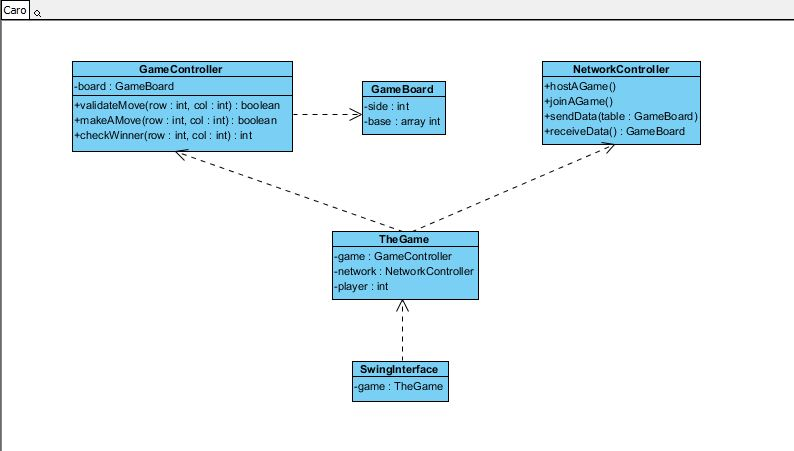
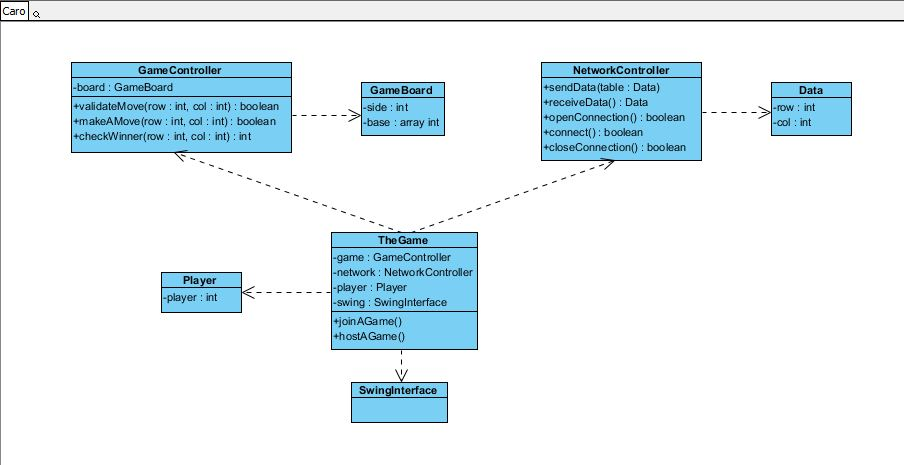
:D

diff --git a/caro/src/SocketNetwork/NetworkController.java b/caro/src/SocketNetwork/NetworkController.java
@@ -26,12 +26,15 @@ public class NetworkController {
         try {
             this.svSoc = new ServerSocket(this.PORT);
             this.soc = svSoc.accept();
-            this.objIn = new ObjectInputStream (new BufferedInputStream(this.soc.getInputStream()));
-            this.objOut = new ObjectOutputStream (new BufferedOutputStream(this.soc.getOutputStream()));
+            this.objOut = new ObjectOutputStream(new BufferedOutputStream ( this.soc.getOutputStream() ));
+            this.objOut.flush();
+            this.objIn = new ObjectInputStream(new BufferedInputStream ( this.soc.getInputStream() ));
             
             return true;
         } catch (IOException ex) {
             Logger.getLogger(NetworkController.class.getName()).log(Level.SEVERE, null, ex);  
+        } catch (Exception e){
+            e.printStackTrace();
         }
         return false;
     }
@@ -39,14 +42,17 @@ public class NetworkController {
     public boolean connect(String hostIP){
         try {
             this.soc = new Socket(hostIP, this.PORT);
-            this.objIn = new ObjectInputStream (new BufferedInputStream(this.soc.getInputStream()));
-            this.objOut = new ObjectOutputStream (new BufferedOutputStream(this.soc.getOutputStream()));
+            this.objOut = new ObjectOutputStream(new BufferedOutputStream ( this.soc.getOutputStream() ));
+            this.objOut.flush();
+            this.objIn = new ObjectInputStream(new BufferedInputStream ( this.soc.getInputStream() ));  
             
             return true;
         } catch (UnknownHostException ex) {
             Logger.getLogger(NetworkController.class.getName()).log(Level.SEVERE, null, ex);
         } catch (IOException ex) {
             Logger.getLogger(NetworkController.class.getName()).log(Level.SEVERE, null, ex);
+        } catch (Exception e) {
+            e.printStackTrace();
         }
         return false;
     }
@@ -71,6 +77,7 @@ public class NetworkController {
     public boolean sendData(Data data){
         try {
             this.objOut.writeObject(data);
+            this.objOut.flush();
             return true;
         } catch (IOException ex) {
             Logger.getLogger(NetworkController.class.getName()).log(Level.SEVERE, null, ex);

diff --git a/caro/src/TheGame.java b/caro/src/TheGame.java
@@ -17,6 +17,7 @@ public class TheGame {
         TheGame theGame = new TheGame();
         Scanner sc = new Scanner(System.in);
         
+        System.out.println("1 for server | 2 for client");
         int choice = sc.nextInt();
         switch (choice){
             case 1:
@@ -35,12 +36,15 @@ public class TheGame {
         boolean check = nwCtrl.openConnection();
         if(check)
             System.out.println("server ok");
+        else
+            System.out.println("server not ok");
         Data data;
         while( gameGoOn() ){
             data = nwCtrl.receiveData();
             System.out.println("Row: " + data.getRow());
             System.out.println("Col: " + data.getCol());
             System.out.println("Data received");
+            break;
         }
         check = nwCtrl.closeConnection();
         if(check)
@@ -52,10 +56,13 @@ public class TheGame {
         boolean check = nwCtrl.connect("localhost");
         if(check)
             System.out.println("client ok");
-        Data data;
+        else
+            System.out.println("client not ok");
+        Data data = new Data(1, 2);
         while( gameGoOn() ){
-            nwCtrl.sendData(new Data(1, 2));
+            nwCtrl.sendData(data);
             System.out.println("Data sent");
+            break;
         }
         check = nwCtrl.closeConnection();
         if(check)

diff --git a/caro/src/SwingInterface/MyFrame.java b/caro/src/SwingInterface/MyFrame.java
@@ -23,20 +23,23 @@ public class MyFrame extends JFrame {
         this.playField = playField;
     }
     
-    public MyFrame(){
-        this.playField = new JPanel(new GridLayout(3,3));
-        for (int i = 0; i < 9; i++) {
-            XOButton btn = new XOButton();
-            btn.addActionListener(btn);
-            this.playField.add(btn);
+    public MyFrame(int side){
+        this.playField = new JPanel(new GridLayout(side, side));
+        for (int row = 0; row < side; row++) {
+            for(int col = 0; col < side; col++){
+                XOButton btn = new XOButton(row, col);
+                btn.addActionListener(btn);
+                this.playField.add(btn);
+            }
         }
         this.getContentPane().add(this.playField);
         this.setVisible(true);
         this.pack();
+        this.setResizable(false);
         this.setDefaultCloseOperation(EXIT_ON_CLOSE);
     }
     
-//    public static void main(String[] args) {
-//        JFrame myFrame = new MyFrame();
-//    }
+    public static void main(String[] args) {
+        MyFrame frame = new MyFrame(3);
+    }
 }

diff --git a/caro/src/SwingInterface/XOButton.java b/caro/src/SwingInterface/XOButton.java
@@ -14,16 +14,20 @@ import javax.swing.JButton;
  * @author tannm_b01522
  */
 public class XOButton extends JButton implements ActionListener{
-    private int value = 0;
-    public XOButton(){
-        this.setText(this.value+"");
+    private int value;
+    private int rowPos;
+    private int colPos;
+    
+    public XOButton(int rowPos, int colPos){
+        this.value = 0;
+        this.rowPos = rowPos;
+        this.colPos = colPos;
+        this.setText(" ");
     }
+    
     @Override
     public void actionPerformed(ActionEvent ae) {
-        this.value ++;
-        if(this.value > 1){
-            this.value = 0;
-        }
-        this.setText(this.value+"");
+        XOButton source = (XOButton) ae.getSource();
+        
     }
 }

diff --git a/caro/src/GameCore/Player.java b/caro/src/GameCore/Player.java
@@ -1,0 +1,28 @@
+/*
+ * To change this license header, choose License Headers in Project Properties.
+ * To change this template file, choose Tools | Templates
+ * and open the template in the editor.
+ */
+
+package GameCore;
+
+/**
+ *
+ * @author Administrator
+ */
+public class Player {
+    private int player;
+
+    public Player(int player) {
+        this.player = player;
+    }
+
+    public int getPlayer() {
+        return player;
+    }
+
+    public void setPlayer(int player) {
+        this.player = player;
+    }
+    
+}
